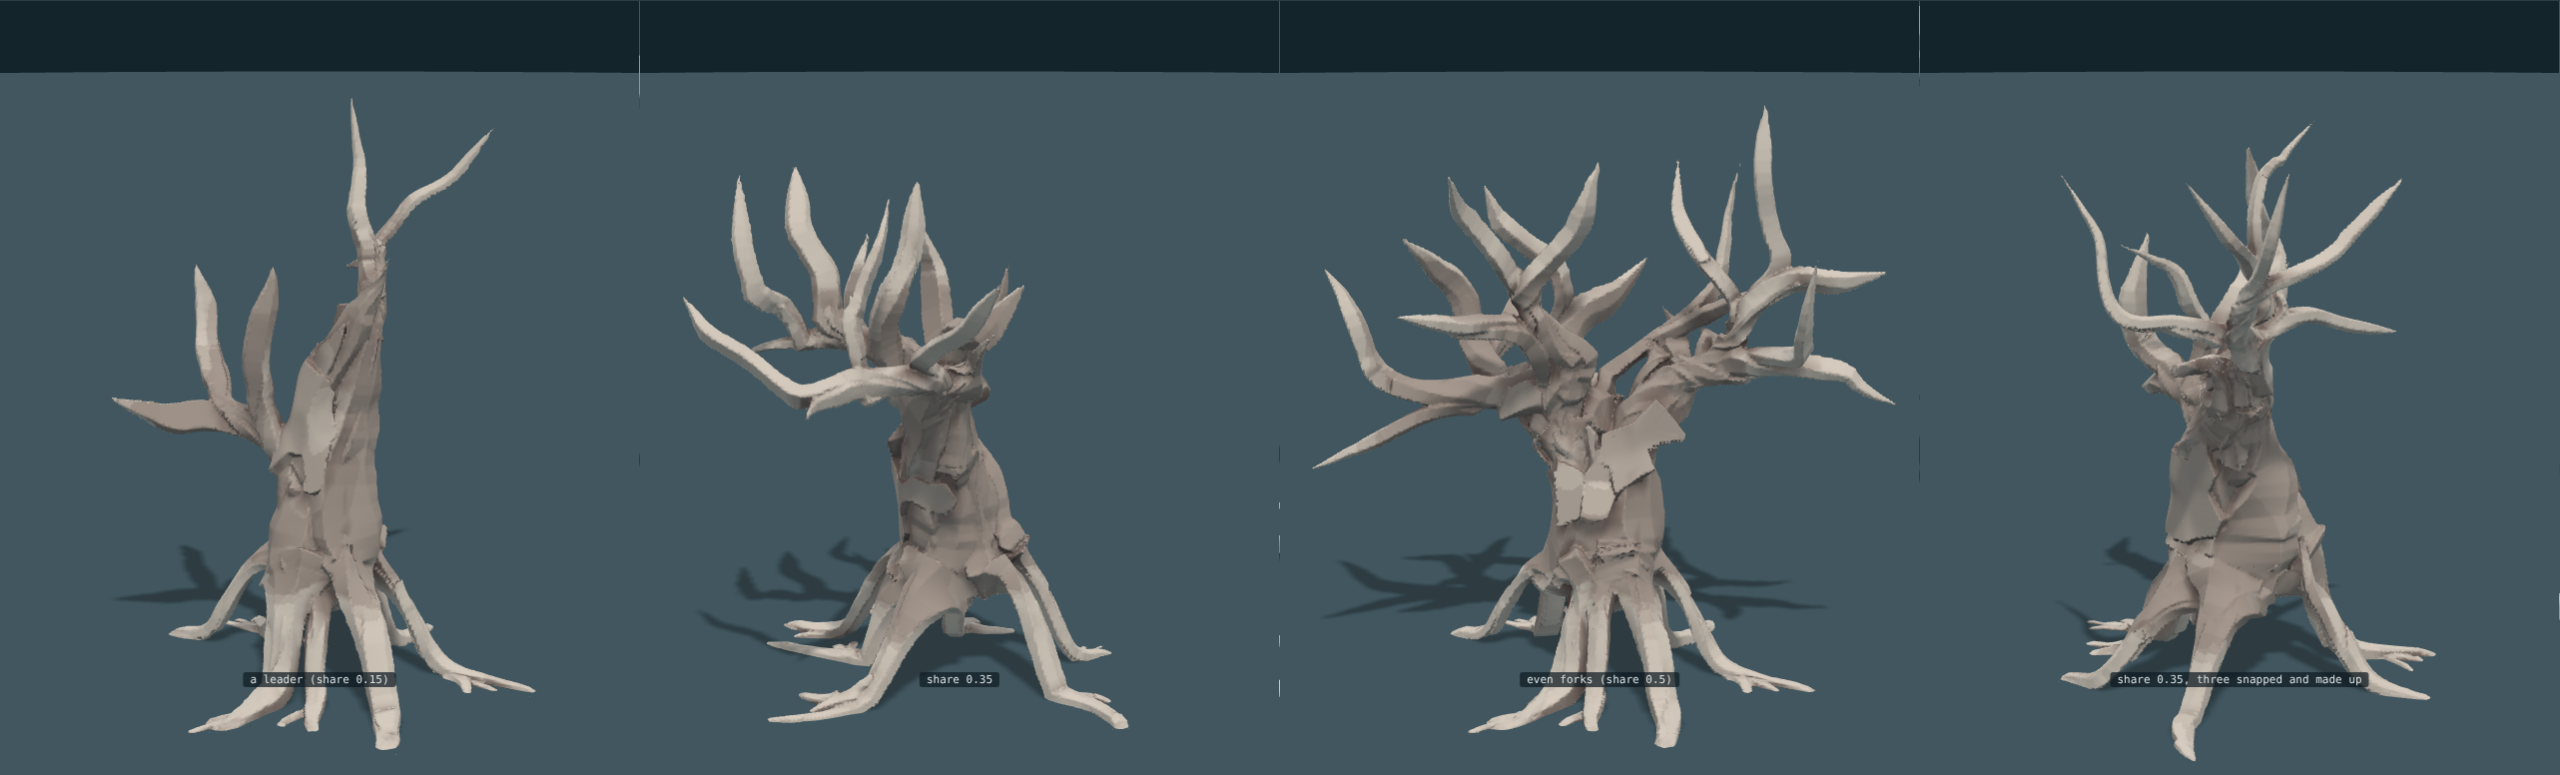
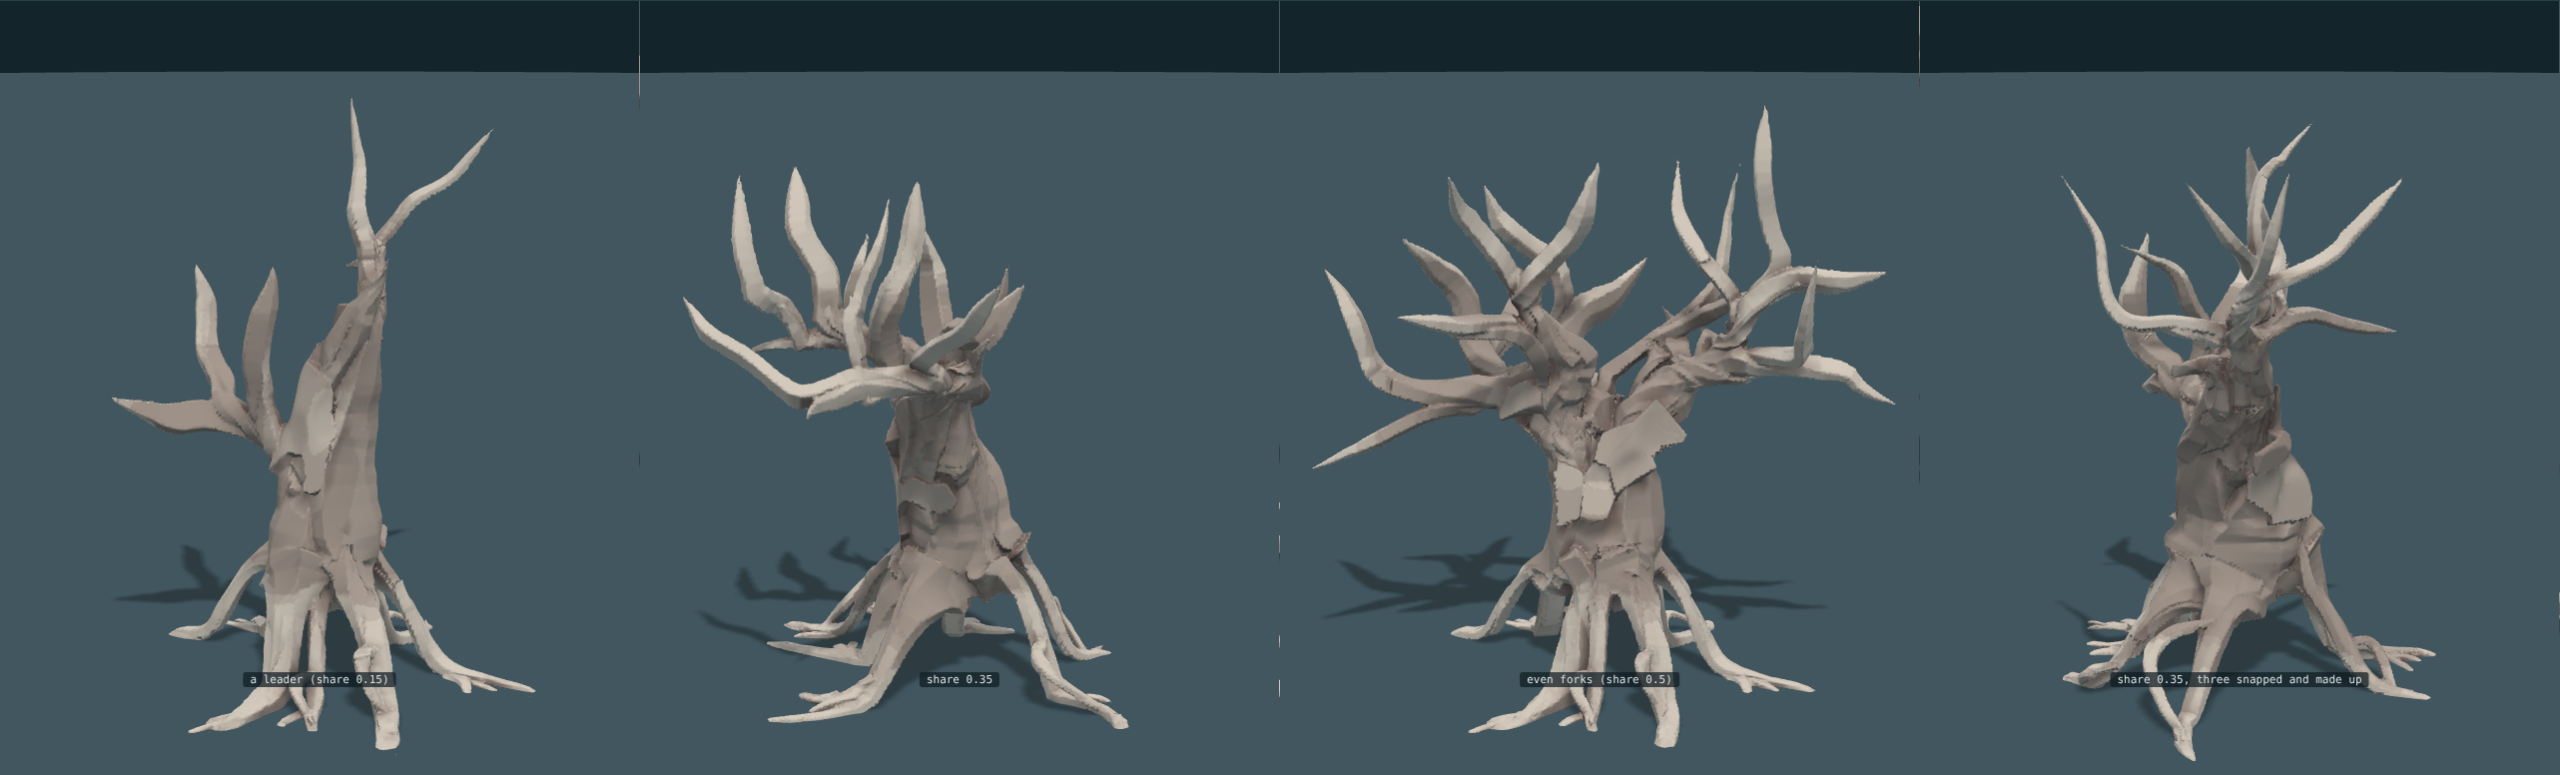
Eyes: a root sprouts to one side and merges back into itself, leaving a closed loop of wood
Claude-Session: https://claude.ai/code/session_0192rgp75jGkttZXf7hEakip

diff --git a/trees.js b/trees.js
@@ -30,7 +30,7 @@
   function frames(P) { let N = null; return P.map((p, i) => { const T = unit([0, 1, 2].map((k) => P[Math.min(P.length - 1, i + 1)][k] - P[Math.max(0, i - 1)][k])); N = unit((N || [1, 0, 0.2]).map((v, k, A) => v - T[k] * dot(A, T))); return [T, N, cross(T, N)]; }); }
 
   function grow(recipe) {
-    const P = Object.assign({ strands: 8, fill: 0.75, uneven: 0.5, twist: 0.5, taut: 0.3, stiff: 0.05, hug: 0.15, bind: 0.004, roots: 0.6, wind: 1.1, mixed: false, lmax: 0, set: 0, swell: 1, feet: 0, lap: 0, ground: null, down: 0.6, crease: 0.5, snake: 1, air: 0.18, reach: 0.6, hang: 0.3, bold: 0.35, brace: 0.12, bite: 1.8, forks: 1, dive: 0.12, slant: 0.75, clumps: 3, cling: 0.88, grip: 0.62, collar: 1.6, flare: 0.07, waste: 0.25, clear: 1, settle: 0, giving: 0.75, passes: 1500, ds: 0.035, seed: 1, trunk: [[0, 0.14, 0, 0.27], [0, 1.6, 0, 0.1]], limbs: [], orb: null }, recipe);
+    const P = Object.assign({ strands: 8, fill: 0.75, uneven: 0.5, twist: 0.5, taut: 0.3, stiff: 0.05, hug: 0.15, bind: 0.004, roots: 0.6, wind: 1.1, mixed: false, lmax: 0, set: 0, swell: 1, feet: 0, lap: 0, ground: null, down: 0.6, crease: 0.5, snake: 1, air: 0.18, reach: 0.6, eyes: 0.4, hang: 0.3, bold: 0.35, brace: 0.12, bite: 1.8, forks: 1, dive: 0.12, slant: 0.75, clumps: 3, cling: 0.88, grip: 0.62, collar: 1.6, flare: 0.07, waste: 0.25, clear: 1, settle: 0, giving: 0.75, passes: 1500, ds: 0.035, seed: 1, trunk: [[0, 0.14, 0, 0.27], [0, 1.6, 0, 0.1]], limbs: [], orb: null }, recipe);
     // The ground, if the tree is given one: any function of a place that is how far it is outside the ground (less than
     // nothing inside). Without one the ground is the level at height 0, as it always was. (A grown tree is always given one, level if nothing else, so that its roots are walked.)
     const G = P.ground, gradG = G ? (x, y, z) => { const e = 0.008; return unit([G(x + e, y, z) - G(x - e, y, z), G(x, y + e, z) - G(x, y - e, z), G(x, y, z + e) - G(x, y, z - e)]); } : null, rootPts = [];
@@ -230,6 +230,28 @@
           S.push({ X, goal: Float64Array.from(X), rho: Float64Array.from(w.rr.slice().reverse().concat([rb])), hold: Float64Array.from({ length: K }, (_, j) => (j < K * 0.45 ? 0.2 : 0)), root: K, K, limb: -1, limbAt: -1, a: par.a, b: par.b, fat: par.fat * Math.sqrt(share), bend: Math.min(par.bend, 0.055), give: 1, snapped: false, rootOf: pi, po: k });
           if (depth < 2) part(S.length - 1, depth + 1); } };
       const first = S.length; for (let i = 0; i < first; i++) if (S[i].root > 7 && S[i].stem === undefined) part(i, 0); }
+    // Eyes. Sometimes a root parts and comes back: it sprouts to one side and merges into the same root again
+    // further along, leaving a closed eye of wood with daylight through it. Nothing in the ground asks for this
+    // and it does nothing. Roots do it, and a tree that has one looks like something that has lived.
+    if (G && P.eyes) { const re = rng(P.seed + 777), made = S.length;
+      for (let i = 0; i < made; i++) { const par = S[i];
+        if (par.rootOf !== undefined || par.stem !== undefined || par.root < 11 || re() > P.eyes) continue;
+        // (index 0 is a root's far tip and par.root is at the foot, so the eye is placed from its outer end up)
+        const kb = Math.max(2, Math.round(par.root * (0.14 + 0.26 * re()))), span = Math.min(6 + Math.round(6 * re()), par.root - 3 - kb), ka = kb + span;
+        if (span < 5) continue;
+        const a = [par.X[ka * 3], par.X[ka * 3 + 1], par.X[ka * 3 + 2]], b = [par.X[kb * 3], par.X[kb * 3 + 1], par.X[kb * 3 + 2]];
+        const mid = Math.round((ka + kb) / 2), rmid = par.rho[mid], share = 0.2 + 0.16 * re();
+        const nn = gradG(a[0], a[1], a[2]), tg = unit([b[0] - a[0], b[1] - a[1], b[2] - a[2]]), sd = unit(cross(nn, tg));
+        const wide = rmid * (4 + 3.5 * re()) * (re() < 0.5 ? 1 : -1), rise = rmid * (2.2 + 2.6 * re()), n2 = span * 2, X = [], rr = [];
+        for (let e = 0; e <= n2; e++) { const t = e / n2, lift = Math.sin(PI * t);
+          let q = [0, 1, 2].map((c) => a[c] + (b[c] - a[c]) * t + sd[c] * wide * lift);
+          for (let it = 0; it < 3; it++) { const gn = gradG(q[0], q[1], q[2]), gv = G(q[0], q[1], q[2]); q = q.map((v, c) => v + gn[c] * (rmid * 0.45 + rise * lift - gv)); }
+          X.push(q); rr.push(rmid * Math.sqrt(share) * (0.7 + 0.45 * lift)); }
+        for (let k = kb; k <= ka; k++) par.rho[k] *= Math.sqrt(1 - share);
+        const K2 = X.length, flat = Float64Array.from(X.flat());
+        S.push({ X: flat, goal: Float64Array.from(flat), set: Float64Array.from(flat), rho: Float64Array.from(rr), hold: new Float64Array(K2),
+          root: K2, K: K2, limb: -1, limbAt: -1, a: par.a, b: par.b, fat: par.fat * Math.sqrt(share), bend: Math.min(par.bend, 0.055),
+          give: 1, snapped: false, rootOf: i, po: ka, po2: kb, loop: true }); } }
     if (G) for (const s of S) { s.gc = new Float64Array(s.K); for (let k = 0; k < s.K; k++) s.gc[k] = G(s.goal[k * 3], s.goal[k * 3 + 1], s.goal[k * 3 + 2]); }   // how far off the ground each place on a strand was meant to be
     // Where a shoot snapped off (a limb given as a `stub`). Three ages of the same event:
     //   fresh   the stub stands, its strands broken off a little apart
@@ -259,7 +281,9 @@
     // Nothing meets the grain square. A part that has split off may never stand further from the strand it split
     // from than half the way it has run from the join: it stays inside a wedge of about 27 degrees at each end.
     const WEDGE = P.wedge === undefined ? 0.5 : P.wedge;
-    const kin = (i, k, j, l) => { const A = S[i], B = S[j]; let ch, m, pl; if (B.rootOf === i || A.rootOf === j) { const c3 = B.rootOf === i ? B : A, e3 = c3.K - 1 - (c3 === B ? l : k), p3 = c3 === B ? k : l; if (Math.abs(p3 - (c3.po - e3)) > 12) return 1; const w3 = WEDGE * e3 * ds / (A.rho[k] + B.rho[l]); return w3 < 0.05 ? 0 : Math.min(1, w3); }
+    const kin = (i, k, j, l) => { const A = S[i], B = S[j]; let ch, m, pl;
+      if (A.loop && j === A.rootOf) return Math.min(k, A.K - 1 - k) < 7 ? 0 : 1;
+      if (B.loop && i === B.rootOf) return Math.min(l, B.K - 1 - l) < 7 ? 0 : 1; if (B.rootOf === i || A.rootOf === j) { const c3 = B.rootOf === i ? B : A, e3 = c3.K - 1 - (c3 === B ? l : k), p3 = c3 === B ? k : l; if (Math.abs(p3 - (c3.po - e3)) > 12) return 1; const w3 = WEDGE * e3 * ds / (A.rho[k] + B.rho[l]); return w3 < 0.05 ? 0 : Math.min(1, w3); }
       if (B.stem === i || A.stem === j) { const c2 = B.stem === i ? B : A, m2 = c2 === B ? l : k, p2 = c2 === B ? k : l; if (Math.abs(p2 - (c2.po + m2)) > 12) return 1; const w2 = WEDGE * m2 * ds / (A.rho[k] + B.rho[l]); return w2 < 0.05 ? 0 : Math.min(1, w2); }
       if (B.parent === i) { ch = B; m = l; pl = k; } else if (A.parent === j) { ch = A; m = k; pl = l; } else return 1; if (Math.abs(pl - (ch.po + m)) > 12) return 1; const w = WEDGE * Math.min(m, ch.K - 1 - m) * ds / (A.rho[k] + B.rho[l]); return w < 0.05 ? 0 : Math.min(1, w); };
     // lap: how far strands may lie in each other. Two give way only once they are closer than their girths less that
@@ -282,7 +306,10 @@
     // a split strand rejoins the one it split from at both its ends
     // a tear closes inside its wedge (see WEDGE): toward each end a part is held as near its strand as that allows
     // (a strand that divided off another at the foot of its own length is joined to it there in the same way, at that one end)
-    const joins = () => { for (const s of S) if (s.rootOf !== undefined) { const p = S[s.rootOf].X, K = s.K; let run = 0;   // (a root that parted off another is joined to it where it parted)
+    const joins = () => {
+      for (const s of S) if (s.loop) { const p = S[s.rootOf].X, K = s.K;
+        for (let e = 0; e < 3; e++) for (let c = 0; c < 3; c++) { s.X[e * 3 + c] = p[(s.po - e) * 3 + c]; s.X[(K - 1 - e) * 3 + c] = p[(s.po2 + e) * 3 + c]; } }
+      for (const s of S) if (s.rootOf !== undefined && !s.loop) { const p = S[s.rootOf].X, K = s.K; let run = 0;   // (a root that parted off another is joined to it where it parted)
         for (let e = 0; e < K >> 1; e++) { const m = K - 1 - e, k = s.po - e; if (k < 1) break; if (e) run += H(p[k * 3] - p[(k + 1) * 3], p[k * 3 + 1] - p[(k + 1) * 3 + 1], p[k * 3 + 2] - p[(k + 1) * 3 + 2]); const lim = WEDGE * run; if (lim > 0.5) break;
           const dx = s.X[m * 3] - p[k * 3], dy = s.X[m * 3 + 1] - p[k * 3 + 1], dz = s.X[m * 3 + 2] - p[k * 3 + 2], d = H(dx, dy, dz); if (d > lim) { const f = d > 1e-12 ? lim / d : 0; s.X[m * 3] = p[k * 3] + dx * f; s.X[m * 3 + 1] = p[k * 3 + 1] + dy * f; s.X[m * 3 + 2] = p[k * 3 + 2] + dz * f; } } }
       for (const s of S) if (s.child || s.stem !== undefined) { const par = S[s.child ? s.parent : s.stem], p = par.X, K = s.K;
@@ -426,7 +453,7 @@
       let root = 0; if (q.root) { const at = L[Math.min(K - 1, q.root)]; root = Math.round((n - 1) * at / L[K - 1]); }
       return Object.assign({}, q, { X, rho, gap, O, F, inner, K: n, root }); };
     if (P.fair !== false) for (let i = 0; i < S.length; i++) S[i] = fair(S[i]);
-    return { strands: S.map((s) => ({ X: s.X, rho: s.rho, O: s.O, far: s.F, K: s.K, root: s.root, limb: s.limb, give: s.give, snapped: s.snapped, stem: s.stem === undefined ? -1 : s.stem, rootOf: s.rootOf === undefined ? -1 : s.rootOf, stub: s.limb >= 0 && limbs[s.limb] ? limbs[s.limb].L.stub || null : null, vine: !!s.child, inner: s.inner || null, gap: s.gap || null, fam: s.fam })).concat(threads), orb, marks: marks.map((v) => ({ c: v.c, a: v.a, e: v.e, r: v.r, d: v.d, kind: v.kind, limb: v.limb, asOrb: !!v.asOrb })), measure: { worstOverlap: worst, touching: pairs, overlapping: over, forks, strands: S.length, threads: threads.length }, recipe: P };
+    return { strands: S.map((s) => ({ X: s.X, rho: s.rho, O: s.O, far: s.F, K: s.K, root: s.root, limb: s.limb, give: s.give, snapped: s.snapped, loop: !!s.loop, stem: s.stem === undefined ? -1 : s.stem, rootOf: s.rootOf === undefined ? -1 : s.rootOf, stub: s.limb >= 0 && limbs[s.limb] ? limbs[s.limb].L.stub || null : null, vine: !!s.child, inner: s.inner || null, gap: s.gap || null, fam: s.fam })).concat(threads), orb, marks: marks.map((v) => ({ c: v.c, a: v.a, e: v.e, r: v.r, d: v.d, kind: v.kind, limb: v.limb, asOrb: !!v.asOrb })), measure: { worstOverlap: worst, touching: pairs, overlapping: over, forks, strands: S.length, threads: threads.length }, recipe: P };
   }
 
   // The tree's lines, grown and not given. A shoot carries some of the tree's strands. It grows in bouts: it runs

diff --git a/LOG.md b/LOG.md
@@ -3484,3 +3484,38 @@ Wrong, or not there:
   roots along the edge like a hem.
 - How many roots are bold is a fixed share; nothing about the tree or the
   place changes it.
+
+## Eyes
+
+Said: it does not need to do anything, it has to look immersive, it has
+to look good. For instance: roots that sprout outward and merge back into
+the main root again. Nothing to do with the soil; it looks good.
+
+Built, and it is the first thing here put in for no reason but that. A
+root parts from itself and comes back: a stretch of it sprouts to one
+side, arches up off the ground and merges into the same root further
+along, leaving a closed eye of wood with daylight through it. It takes a
+share of the root's section between the two joins, so the root is thinner
+through the eye and whole again beyond it, and both of its ends are
+pinned to the root each pass, so the two never come apart. Three to five
+on a tree.
+
+Took three goes, all of them about where and how big:
+- Flat on the ground. The eye lay in the surface, so from any angle it
+  was a sliver, not a hole. It arches up off it now, by two or three of
+  its own girths.
+- Too many and too near the foot, where the skirt widening already fills
+  between the legs: the foot webbed shut into a tent. They sit further
+  out along a root now, where the legs are separate and a hole can be
+  seen against the ground.
+- Then none at all, because I placed them by counting from the wrong end
+  of the root (index 0 is the tip, not the foot) and every one fell off
+  the end. Placed from the outer end now.
+
+`sketch/page9.png`, `-foot`, `-from-above`; `sketch/page11.png`,
+`-other-side`, `-foot`.
+
+Wrong, or not there:
+- An eye is a clean arch. A root that did this would be lumpy at the two
+  joins, where the wood of the two has run together over years.
+- Only roots get them. A limb could.
